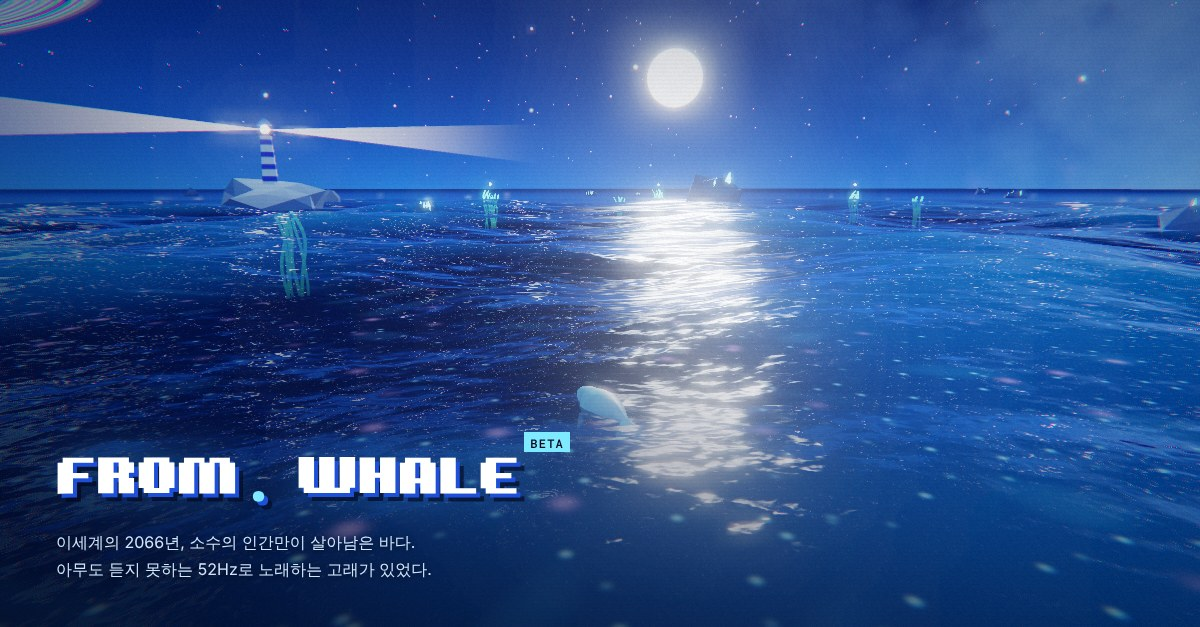
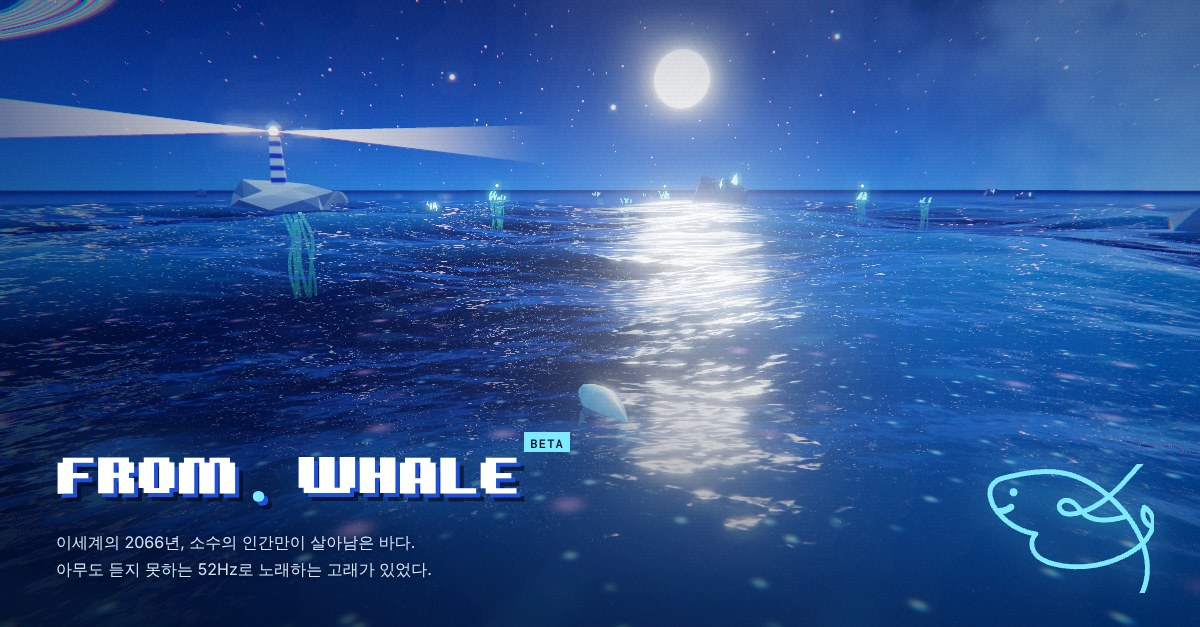
Share card: add the whale mark bottom-right, clear of the moonlit path
Claude-Session: https://claude.ai/code/session_01PwVrQcZSSozSDsRniHpaet

diff --git a/index.html b/index.html
@@ -15,7 +15,7 @@
 		<meta property="og:image" content="https://from-whale.netlify.app/data/res/og.jpg">
 		<meta property="og:image:width" content="1200">
 		<meta property="og:image:height" content="627">
-		<meta property="og:image:alt" content="달빛 윤슬 속에서 반짝이는 고래 헤이즐과 등대, From. Whale 로고">
+		<meta property="og:image:alt" content="달빛 윤슬 속에서 반짝이는 고래 헤이즐과 등대, From. Whale 로고와 고래 마크">
 		<meta name="twitter:card" content="summary_large_image">
 		<link rel="icon" href="data/res/favicon/favicon.ico">
 		<link rel="preconnect" href="https://fonts.googleapis.com">

diff --git a/game/index.html b/game/index.html
@@ -15,7 +15,7 @@
 		<meta property="og:image" content="https://from-whale.netlify.app/data/res/og.jpg">
 		<meta property="og:image:width" content="1200">
 		<meta property="og:image:height" content="627">
-		<meta property="og:image:alt" content="달빛 윤슬 속에서 반짝이는 고래 헤이즐과 등대, From. Whale 로고">
+		<meta property="og:image:alt" content="달빛 윤슬 속에서 반짝이는 고래 헤이즐과 등대, From. Whale 로고와 고래 마크">
 		<meta name="twitter:card" content="summary_large_image">
 		<link rel="icon" href="../data/res/favicon/favicon.ico">
 		<link rel="stylesheet" href="style.css">
